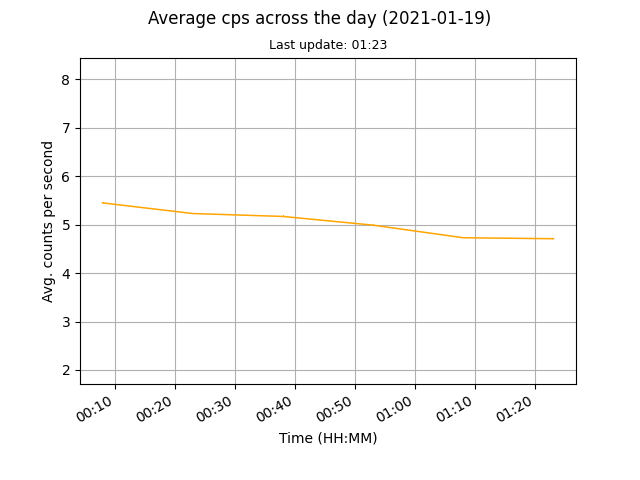
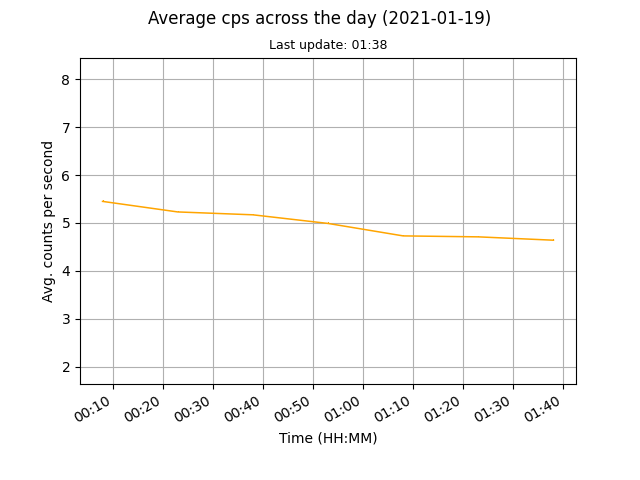
auto data update

diff --git a/docs/index.html b/docs/index.html
@@ -45,8 +45,8 @@
 	
 	<br>
 	
-	<p>Current counts per second (cps): 4.71</p>
-	<p>Last update: 2021-01-19, 01:23</p>
+	<p>Current counts per second (cps): 4.64</p>
+	<p>Last update: 2021-01-19, 01:38</p>
 
 	<p><a href="images/monthly.png"><img src="images/monthly.png" alt="Mothly avg cps data"></a><a href="images/daily.png"><img src="images/daily.png" alt="Daily avg cps data"></a></p>
 	
